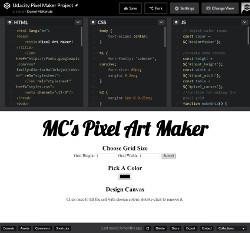
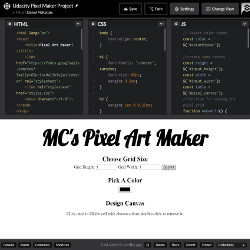
Responsive Images added
Responsive main image added.

Gallery images resized to be consistent.

h1 margins tweaked

diff --git a/index.html b/index.html
@@ -11,11 +11,14 @@
 <body>
 	  <header class="main-head">
       <img class="logo" src="Images_src/Udacity_Logo.png" alt="The logo of the Udacity Company">
-			<h1 class="text"><span>Daniel McKenzie Front-End Developer</span></h1>
+			<h1 class="text">Daniel McKenzie <span>Front-End Developer</span></h1>
 		</header>
     <main>
       <section class="main">
-  			<img class="img-main" src="Images/Axolotl_med.jpg" alt="Close up frontal shot of a Axolotl Salamander">
+  			<img class="img-main" 
+        src="Images/Axolotl_med.jpg"
+        srcset="Images/Axolotl_med.jpg 613w, Images/Axolotl_large.jpg 1080w, Images_src/Axolotl_main.jpg 2290w" 
+        alt="Close up frontal shot of a Axolotl Salamander">
   		</section>
       <section class="portfolio">
         <h2 class="gal-head text">Featured Work</h2>
@@ -23,22 +26,25 @@
     		  
     			<article class="gal-item">
     				<a href="https://codepen.io/DMcKenzie205/pen/xYYvpz" target="_blank">
-            <img class="thumb" src="Images/codepen.io_DMcKenzie205_pen_xYYvpz_thumb.jpeg" alt="Thumbnail of Codepen Project Animal Trading Card"></a>
-
+            <img class="thumb" 
+            src="Images/codepen.io_DMcKenzie205_pen_xYYvpz_thumb.jpeg"
+            alt="Thumbnail of Codepen Project Animal Trading Card"></a>
     				<p class="text galTxt">Animal Trading Card</p>
     			</article>
 
     			<article class="gal-item">
     				<a href="https://codepen.io/DMcKenzie205/pen/VQLEjE" target="_blank">
-            <img class="thumb" src="Images/codepen.io_DMcKenzie205_pen_VQLEjE_thumb.jpeg" alt="Thumbnail of Codepen Project Pixel Art Maker"></a>
-
+            <img class="thumb" 
+            src="Images/codepen.io_DMcKenzie205_pen_VQLEjE_thumb.jpeg" 
+            alt="Thumbnail of Codepen Project Pixel Art Maker"></a>
     				<p class="text galTxt">Pixel Art Maker</p>
     			</article>
 
           <article class="gal-item">
             <a href="https://codepen.io/DMcKenzie205/pen/aVWzxQ" target="_blank">
-            <img class="thumb" src="Images/codepen.io_DMcKenzie205_pen_aVWzxQ_thumb.jpeg" alt="Thumbnail of Codepen Project FEND Project 1"></a>
-
+            <img class="thumb" 
+            src="Images/codepen.io_DMcKenzie205_pen_aVWzxQ_thumb.jpeg" 
+            alt="Thumbnail of Codepen Project FEND Project 1"></a>
             <p class="text galTxt">FEND Project 1</p>
           </article>
     		</div>

diff --git a/master.css b/master.css
@@ -48,6 +48,7 @@
 		box-shadow: -1px 0px 0px rgba(0,0,0,0.06);
 		max-width: 100%;
 		margin-right: 10px;
+    transition: width 0.5s;
 	}
 
   .img-main {
@@ -81,7 +82,7 @@
     float: right;
     font-size: 24px;
     text-align: right;
-    max-width: 30%;
+    margin-top: 10px;
   }
 
   h2 {
@@ -128,17 +129,17 @@
       font-size: 16px;
     }
 
-    .main-head {
-      max-width: 50%;
-    }
-
     .gal-item {
       width: 100%;
       margin: 0 auto;
     }
 
     .logo {
-      margin-top: 0px;
+      margin-top: 5px;
+    }
+
+    h1 {
+      margin-top: 15px;
     }
 
     h2 {
@@ -178,6 +179,10 @@
 
     .gal-item {
       margin: 0 auto;
+    }
+
+    h1 {
+      margin-top: 10px;
     }
 
     h2 {
